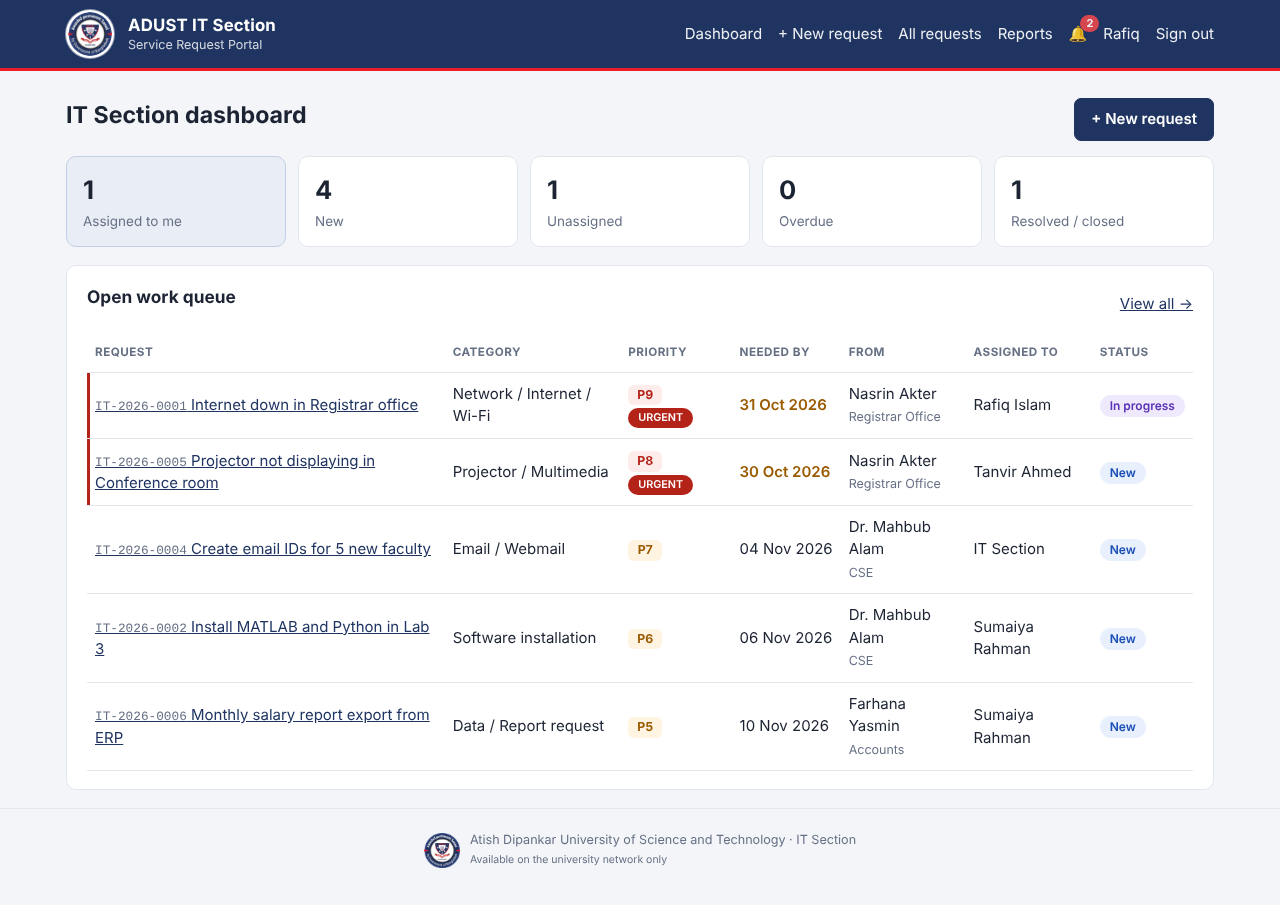
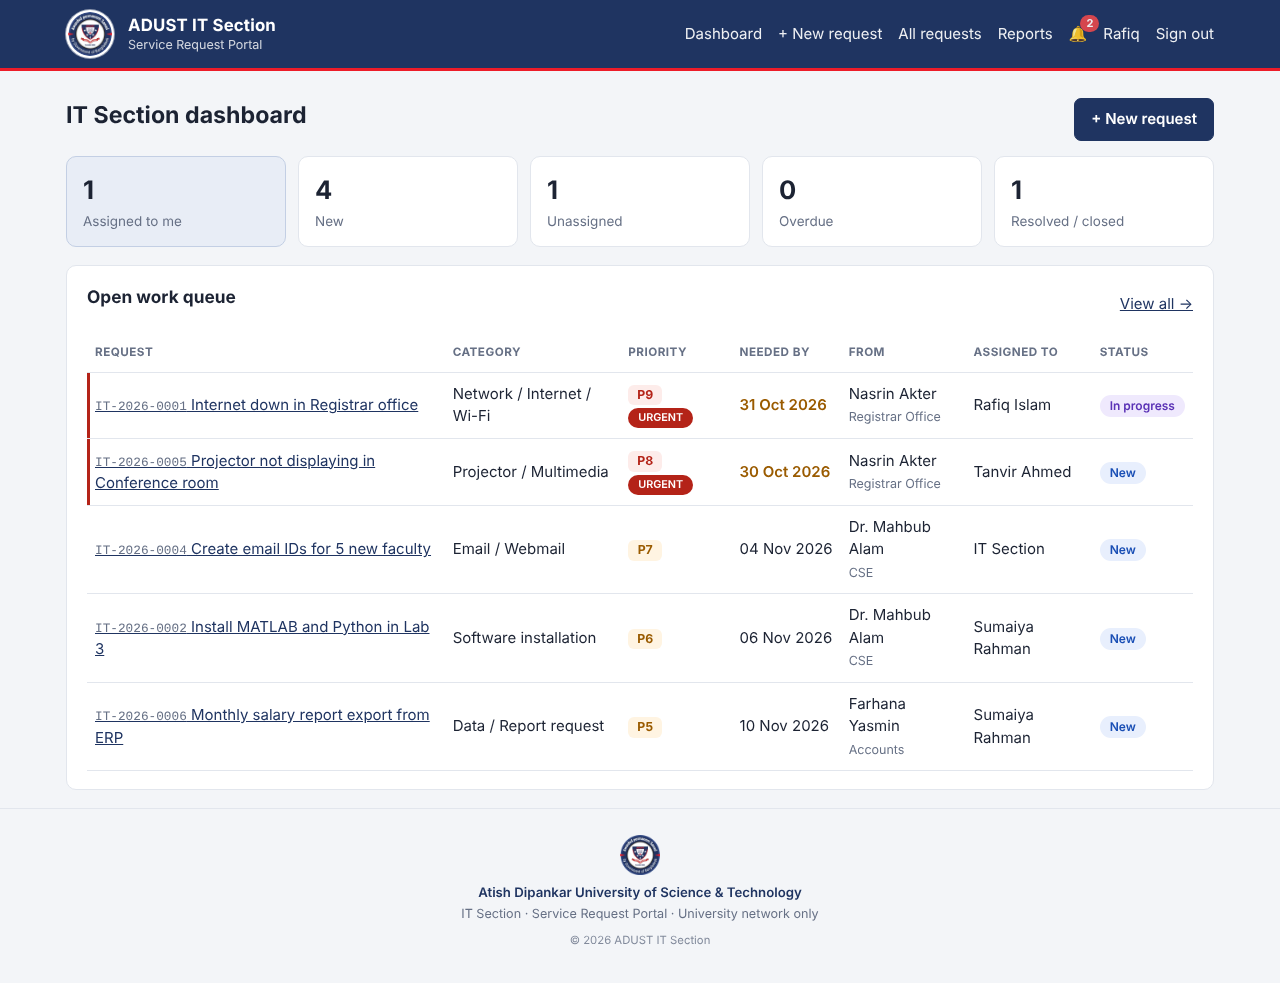
Center the sign-in header and the footer
Sign-in and register pages stack the emblem, university name and portal
label in the middle; the footer does the same and adds a copyright line.

Claude-Session: https://claude.ai/code/session_01EB5ad8Y4nycXoiEcyB24w6

diff --git a/static/style.css b/static/style.css
@@ -25,9 +25,11 @@ code { background: var(--grey-bg); padding: 1px 6px; border-radius: 4px; }
 .dropdown .menu { position: absolute; right: 0; top: calc(100% + 10px); background: #fff; border: 1px solid var(--border); border-radius: 8px; box-shadow: 0 8px 24px rgba(16,24,40,.15); min-width: 180px; padding: 6px; z-index: 10; }
 .dropdown .menu a { display: block; color: var(--text); padding: 8px 10px; border-radius: 6px; opacity: 1; }
 .dropdown .menu a:hover { background: var(--accent); text-decoration: none; }
-.auth-head { display: flex; align-items: center; gap: 14px; margin-bottom: 18px; padding-bottom: 16px; border-bottom: 1px solid var(--border); color: var(--primary); line-height: 1.3; }
-.auth-logo { width: 72px; height: auto; flex: none; }
-.auth-kicker { margin: 4px 0 0; color: var(--brand-red); font-weight: 600; font-size: .8em; letter-spacing: .04em; text-transform: uppercase; }
+.auth-head { text-align: center; margin: 0 0 20px; }
+.auth-logo { display: block; width: 88px; height: 88px; margin: 0 auto 12px; }
+.auth-uni { color: var(--primary); font-size: 1.15rem; font-weight: 700; line-height: 1.3; letter-spacing: .01em; }
+.auth-kicker { display: flex; align-items: center; gap: 10px; margin-top: 12px; color: var(--brand-red); font-weight: 600; font-size: .74em; letter-spacing: .08em; text-transform: uppercase; }
+.auth-kicker::before, .auth-kicker::after { content: ""; flex: 1; height: 1px; background: var(--border); }
 nav { display: flex; gap: 16px; align-items: center; flex-wrap: wrap; }
 nav a, nav .link { color: var(--primary-ink); text-decoration: none; opacity: .92; }
 nav a:hover, nav .link:hover { opacity: 1; text-decoration: underline; }
@@ -119,8 +121,11 @@ tr.inactive td { opacity: .5; }
 .note small { white-space: nowrap; }
 
 
-.footer { color: var(--muted); font-size: .84em; padding: 22px 0 36px; margin-top: 12px; border-top: 1px solid var(--border); }
-.footer .wrap { display: flex; align-items: center; justify-content: center; gap: 10px; text-align: left; }
+.footer { color: var(--muted); font-size: .84em; padding: 26px 0 34px; margin-top: 16px; border-top: 1px solid var(--border); text-align: center; }
+.footer img { display: block; margin: 0 auto 8px; }
+.footer-name { color: var(--primary); font-weight: 600; font-size: 1.05em; }
+.footer-meta { margin-top: 2px; }
+.footer-copy { margin-top: 8px; font-size: .9em; opacity: .8; }
 
 @media (max-width: 860px) {
   .ticket-layout { grid-template-columns: 1fr; }

diff --git a/templates/login.html b/templates/login.html
@@ -3,11 +3,11 @@
 <div class="auth card">
   <div class="auth-head">
     <img class="auth-logo" src="{{ url_for('static', filename='img/adust-logo.png') }}" alt="ADUST logo">
-    <div><strong>Atish Dipankar University of Science &amp; Technology</strong>
-      <p class="auth-kicker">IT Section · Service Request Portal</p></div>
+    <div class="auth-uni">Atish Dipankar University<br>of Science &amp; Technology</div>
+    <div class="auth-kicker"><span>IT Section · Service Request Portal</span></div>
   </div>
-  <h1>Sign in</h1>
-  <p class="muted">Send work requests to the ADUST IT section and track their progress.</p>
+  <h1 class="center">Sign in</h1>
+  <p class="muted center">Send work requests to the IT section and track their progress.</p>
   <form method="post">
     <input type="hidden" name="csrf_token" value="{{ csrf_token() }}">
     <label>University email or user ID

diff --git a/templates/register.html b/templates/register.html
@@ -3,10 +3,10 @@
 <div class="auth card wide">
   <div class="auth-head">
     <img class="auth-logo" src="{{ url_for('static', filename='img/adust-logo.png') }}" alt="ADUST logo">
-    <div><strong>Atish Dipankar University of Science &amp; Technology</strong>
-      <p class="auth-kicker">IT Section · Service Request Portal</p></div>
+    <div class="auth-uni">Atish Dipankar University<br>of Science &amp; Technology</div>
+    <div class="auth-kicker"><span>IT Section · Service Request Portal</span></div>
   </div>
-  <h1>Create an account</h1>
+  <h1 class="center">Create an account</h1>
   <form method="post" class="grid">
     <input type="hidden" name="csrf_token" value="{{ csrf_token() }}">
     <label>Full name * <input name="name" required value="{{ request.form.name }}"></label>

diff --git a/templates/base.html b/templates/base.html
@@ -49,8 +49,12 @@
   {% block content %}{% endblock %}
 </main>
 <footer class="footer">
-  <div class="wrap"><img src="{{ url_for('static', filename='img/adust-logo.png') }}" alt="" width="36" height="35">
-  <span>Atish Dipankar University of Science and Technology · IT Section<br><small>Available on the university network only</small></span></div>
+  <div class="wrap">
+    <img src="{{ url_for('static', filename='img/adust-logo.png') }}" alt="" width="40" height="40">
+    <div class="footer-name">Atish Dipankar University of Science &amp; Technology</div>
+    <div class="footer-meta">IT Section · Service Request Portal · University network only</div>
+    <div class="footer-copy">© {{ now_year() }} ADUST IT Section</div>
+  </div>
 </footer>
 {% if g.user %}
 <script>

diff --git a/app.py b/app.py
@@ -233,7 +233,7 @@ def unread_count():
                             (g.user["id"],)).fetchone()[0]
 
 
-app.jinja_env.globals.update(csrf_token=csrf_token, STATUSES=STATUSES, ROLES=ROLES,
+app.jinja_env.globals.update(now_year=lambda: date.today().year, csrf_token=csrf_token, STATUSES=STATUSES, ROLES=ROLES,
                              is_it=is_it, unread_count=unread_count,
                              OPEN_STATUSES=OPEN_STATUSES)
 
